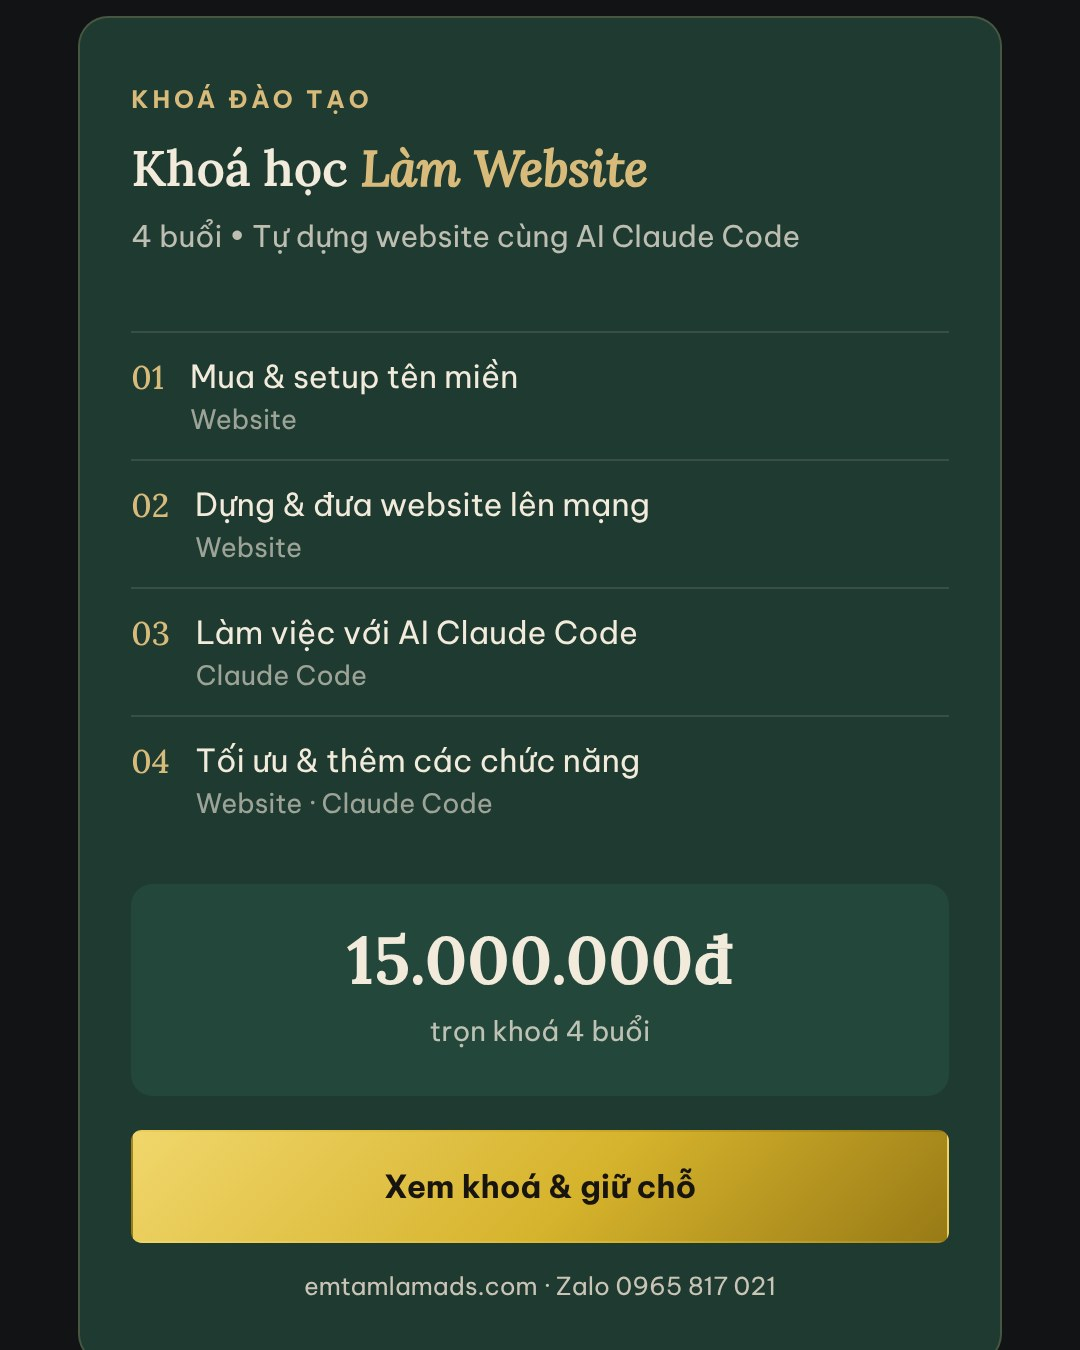
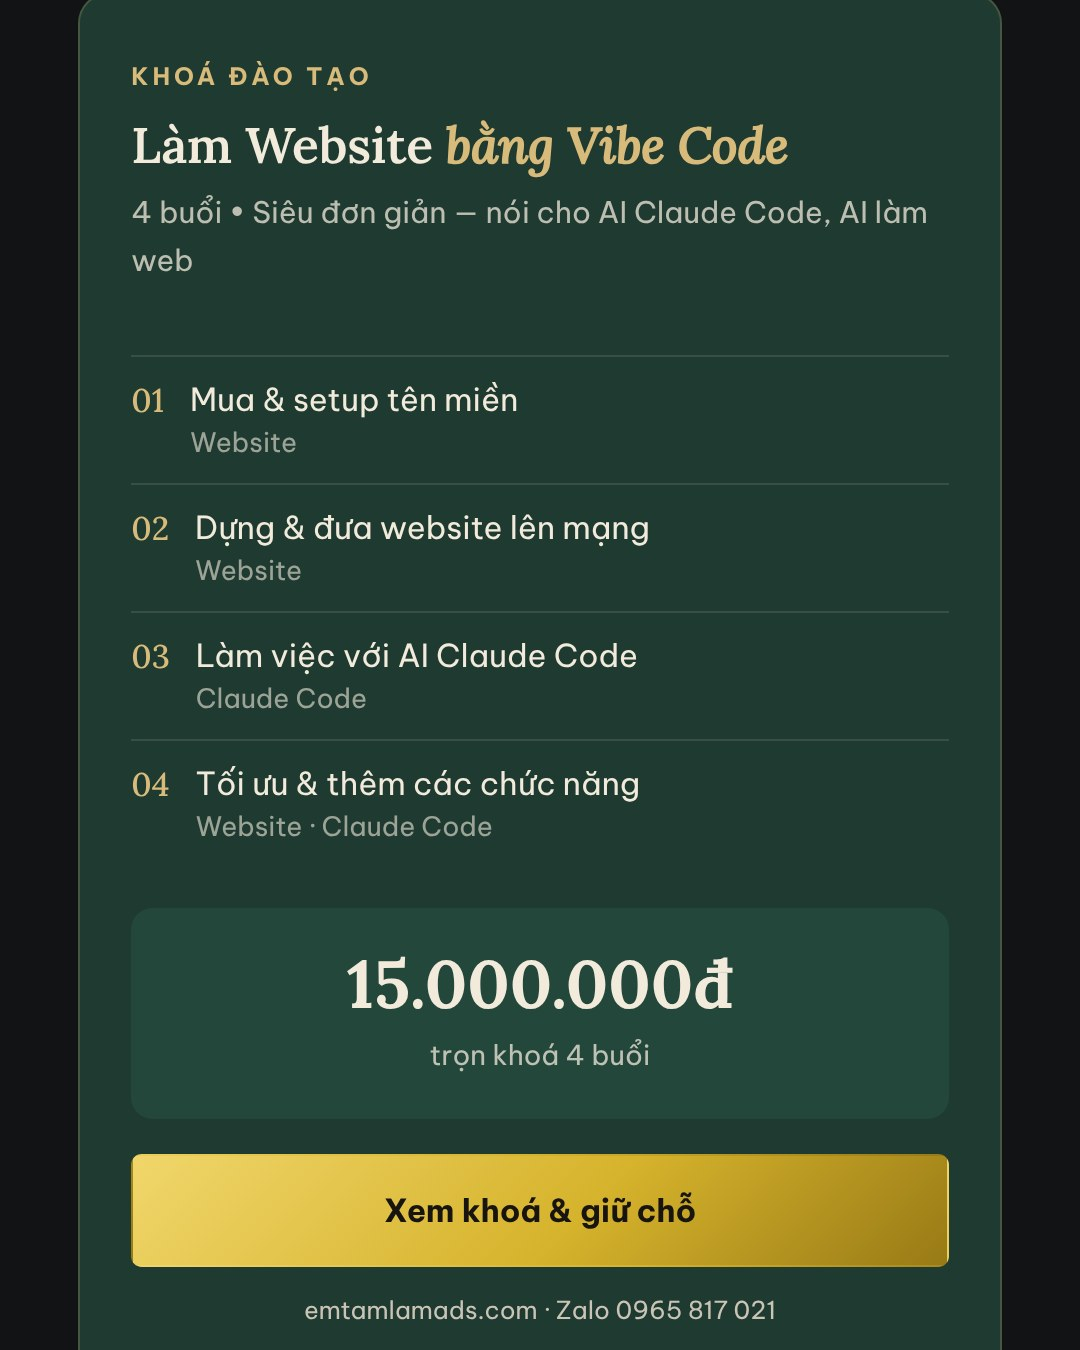
Khoá Làm Website: định vị lại thành "Vibe Code — siêu đơn giản" (#15)
* Redesign homepage around 3 core services; improve contact flow

- Homepage now leads with the 3 main services (Fanpage & social
  management, photo/video production, ads), each with a detailed
  section, deliverables and CTAs; adds bundle offer, process steps
  and FAQ. Other services move to a compact 'Dịch vụ khác' block,
  keeping their anchors so old redirect pages still work.
- Remove video buttons pointing to mp4 files that are not deployed.
- SEO: Open Graph tags, favicon, canonical, schema.org data.
- Contact form: 'Gửi qua Zalo' option, email now optional, encode the
  mailto body, preselect the service from ?dv=.
- Shared: Zalo floating button, bottom contact bar on mobile, visible
  ghost buttons on light sections, updated navigation on all pages.

Claude-Session: https://claude.ai/code/session_01DRaGVCLQyYTyefQ6Q8RiJu

* Add pricing section, real client feedback and fanpage traffic

- New 'Bảng giá' section: Ads + Edit clip package (7.5M/dự án),
  Quay · Chụp & Dựng course (15M), Facebook Ads + AI Claude Code
  course (15M), combo 2 courses (25M, was 30M). Prices also in
  schema.org offers; contact form gets matching options.
- 'Cảm nhận' now opens with a real chat screenshot (Style by BaoAnh)
  and 28-day Facebook Insights numbers for 5 managed fanpages.
- Nav gets a 'Bảng giá' link on every page; FAQ cost answer points
  to the price list.

Claude-Session: https://claude.ai/code/session_01DRaGVCLQyYTyefQ6Q8RiJu
[…]

diff --git a/lamwebsite/index.html b/lamwebsite/index.html
@@ -3,15 +3,15 @@
 <head>
 <meta charset="UTF-8">
 <meta name="viewport" content="width=device-width, initial-scale=1.0">
-<title>Khoá Làm Website cùng AI Claude Code — 4 buổi | Em Tâm Làm Ads</title>
-<meta name="description" content="Khoá 4 buổi: tự mua tên miền, dựng và đưa website lên mạng cùng AI Claude Code — không cần biết code. Website emtamlamads.com được làm bằng chính cách này. 15.000.000đ.">
+<title>Khoá Làm Website bằng Vibe Code — siêu đơn giản, 4 buổi | Em Tâm Làm Ads</title>
+<meta name="description" content="Vibe code: nói cho AI Claude Code biết bạn muốn website thế nào, AI làm hết. Khoá 4 buổi siêu đơn giản — mua tên miền, dựng web, đưa lên mạng, thêm chức năng. Không cần biết code. 15.000.000đ.">
 <meta name="theme-color" content="#0B0D0F">
 <link rel="canonical" href="https://emtamlamads.com/lamwebsite/">
 <meta property="og:type" content="website">
 <meta property="og:site_name" content="Em Tâm Làm Ads">
 <meta property="og:locale" content="vi_VN">
 <meta property="og:url" content="https://emtamlamads.com/lamwebsite/">
-<meta property="og:title" content="Khoá Làm Website cùng AI Claude Code — 4 buổi">
+<meta property="og:title" content="Làm website bằng Vibe Code — siêu đơn giản, không cần biết code">
 <meta property="og:description" content="Tự làm website, landing page, form khách hàng cùng AI Claude Code — không cần biết code.">
 <meta property="og:image" content="https://emtamlamads.com/assets/bang-gia-khoa-lam-website.jpg">
 <meta name="twitter:card" content="summary_large_image">
@@ -345,11 +345,11 @@
   <section class="lp-hero" data-bg="dark">
     <div class="wrap">
       <div>
-        <span class="eyebrow reveal">Khoá đào tạo · 4 buổi</span>
-        <h1 class="reveal">Tự làm website cho shop — <em>cùng AI Claude Code, không cần biết code.</em></h1>
-        <p class="lede reveal">Mua tên miền, dựng website, đưa lên mạng và thêm chức năng — bằng cách ra lệnh tiếng Việt cho AI Claude Code. Website emtamlamads.com bạn đang xem được làm đúng theo cách này.</p>
+        <span class="eyebrow reveal">Vibe Code · 4 buổi · siêu đơn giản</span>
+        <h1 class="reveal">Làm website bằng Vibe Code — <em>nói cho AI biết bạn muốn gì, AI làm hết.</em></h1>
+        <p class="lede reveal"><b>Vibe code</b> là cách làm website mới: bạn chỉ cần mô tả bằng tiếng Việt — “làm cho mình trang bán khoá học, có form đăng ký” — AI Claude Code tự viết code, bạn xem và bảo sửa đến khi ưng. Không cần biết code, không cần kéo thả. Website emtamlamads.com bạn đang xem được làm đúng như vậy.</p>
         <ul class="facts reveal" aria-label="Thông tin nhanh">
-          <li>4 buổi thực hành</li>
+          <li>Siêu đơn giản · 4 buổi</li>
           <li>Website trên tên miền của bạn</li>
           <li>Không cần biết code</li>
           <li>15.000.000đ trọn khoá</li>

diff --git a/index.html b/index.html
@@ -943,8 +943,8 @@
 
         <article class="plan" style="--i:3">
           <span class="kind">Khoá đào tạo</span>
-          <h3>Khoá học <em>Làm Website</em></h3>
-          <p class="meta">4 buổi • Tự dựng website cùng AI Claude Code</p>
+          <h3>Làm Website <em>bằng Vibe Code</em></h3>
+          <p class="meta">4 buổi • Siêu đơn giản — nói cho AI Claude Code, AI làm web</p>
           <ol>
             <li><span>Mua &amp; setup tên miền<small>Website</small></span></li>
             <li><span>Dựng &amp; đưa website lên mạng<small>Website</small></span></li>
